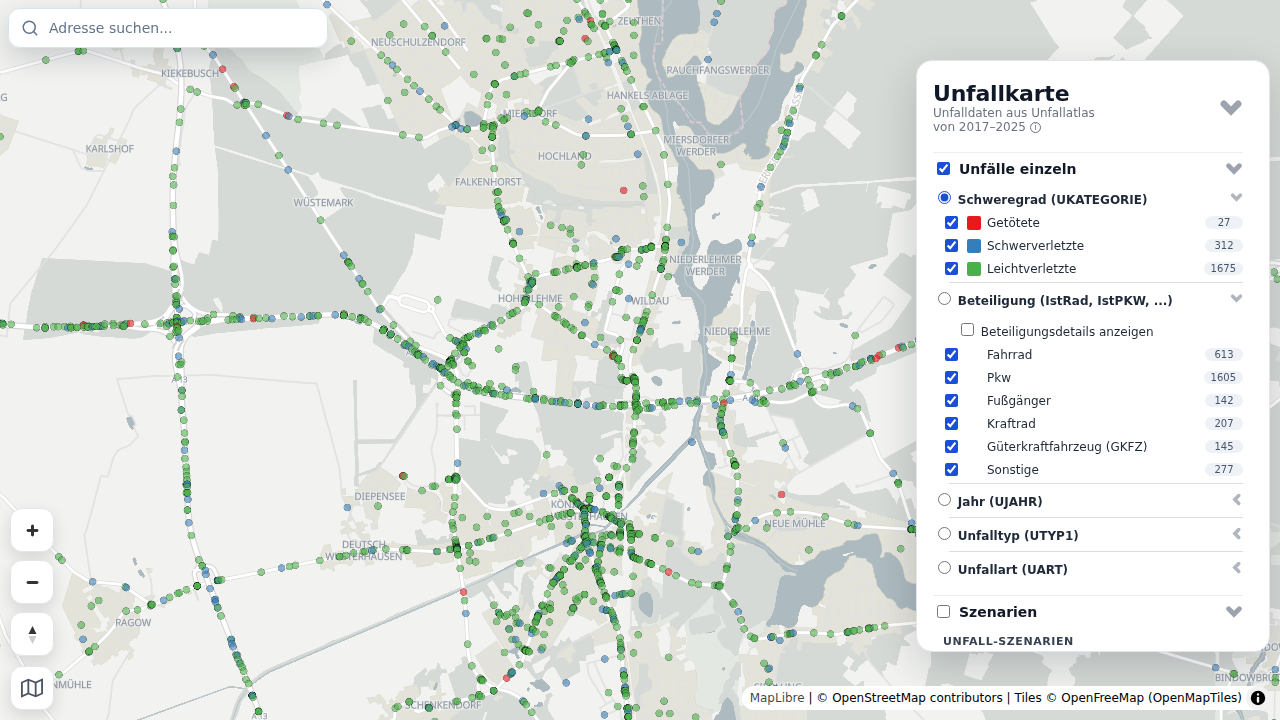
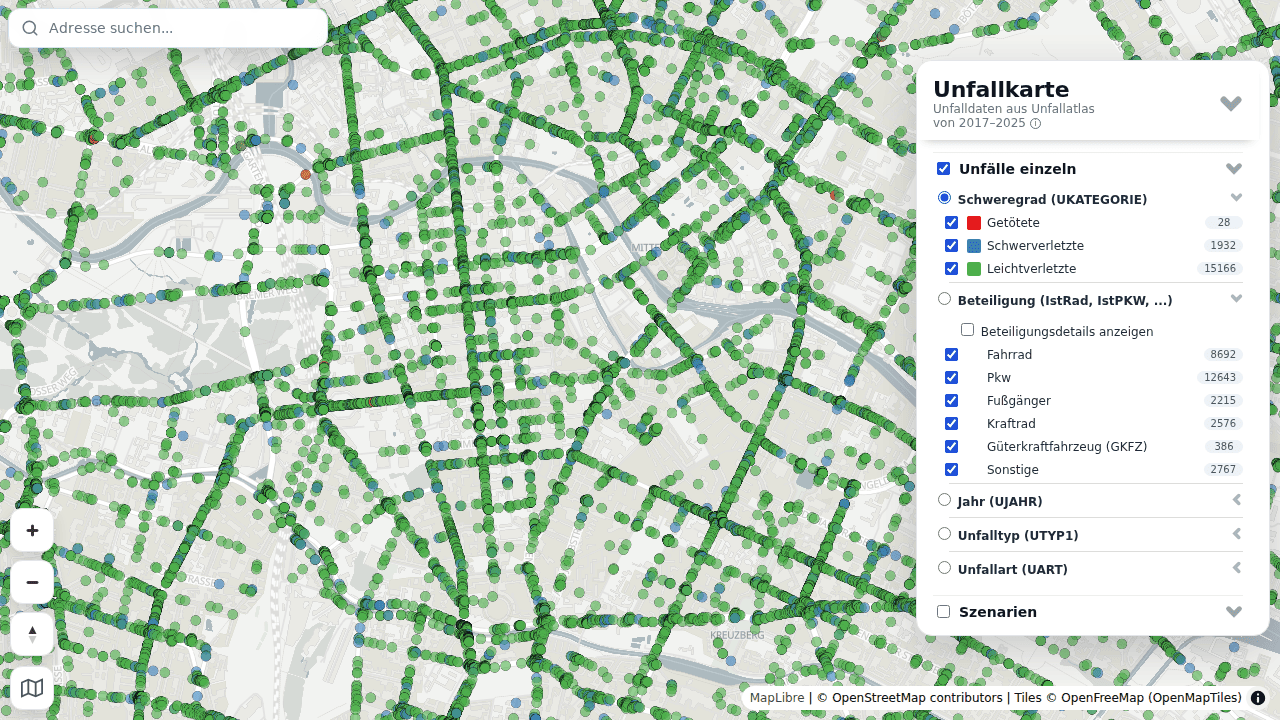
docs: README aktualisiert und neu gefasst
Inhaltlich falsch war vor allem das Datenjahr: an drei Stellen stand 2017–2024,
tatsächlich sind es 2017–2025 (2.219.353 Unfälle, nachgezählt im Parquet) — auch
im Beispiel-Kommando, das damit auf eine nicht existierende Datei zeigte.

Weiter:
- Link auf die kanonische Adresse vizsim.de/unfallkarte (github.io leitet nur um)
- `npm run test:unit` fehlte komplett; Golden- und Contract-Test sind jetzt als
  das benannt, was sie sind: das Sicherheitsnetz für Umbauten
- neuer Abschnitt "Branches & Deploy" — main ist Arbeits- UND Deploy-Branch, ein
  Push ist ein Produktiv-Deploy; Tag v2025 erwähnt
- Szenarien als Tabelle mit den echten Schwellenwerten aus dem Pipeline-Code
  (eps 50 m, 400 m, 30/60 m, 56 dB), statt teils unscharfer Prosa
- Hinweis bei sc9, dass die Feststellung eines Unfallschwerpunkts Sache der
  Unfallkommission ist
- Einstieg sagt jetzt, was man mit der Karte TUN kann, nicht nur welche Technik
  darunter liegt

Screenshot neu aufgenommen (zeigte noch die Legende vor dem Umbau) und auf die
in den og:image-Metas deklarierten 1280x720 gebracht — er war 1440x900, die
Angabe stimmte also nicht. Per pngquant von 1,08 MB auf 371 KB.

diff --git a/README.md b/README.md
@@ -3,15 +3,24 @@
 
 # 🚧 Unfallkarte (Deutschland)
 
-**Interaktive Webkarte** für Verkehrsunfälle in Deutschland. Die Unfalldaten stammen
-aus dem [Unfallatlas der Statistischen Ämter](https://unfallatlas.statistikportal.de/)
-(dl-de/by-2-0). Rohe Unfall- und OpenStreetMap-Daten werden zu **PMTiles** verarbeitet
-und in einer MapLibre-Karte dargestellt — komplett auf offenen, frei gehosteten
-Diensten (keine kommerzielle Karten-API).
+**Interaktive Webkarte für Verkehrsunfälle in Deutschland.** Über 2,2 Millionen polizeilich
+erfasste Unfälle mit Personenschaden aus den Jahren **2017–2025** — filterbar nach Schwere,
+Unfallart, Unfalltyp, Jahr und Beteiligung, und kombinierbar mit Kontextdaten: Schulen,
+Tempolimits, Verkehrsmengen, Lärm, Radinfrastruktur.
+
+Darüber hinaus rechnet die Pipeline **Szenarien**: Fragen an die Daten, die man auf der
+Karte sonst nur ahnen kann — wo häufen sich Unfälle im Schulumfeld, wo unterbricht ein
+kurzes Tempo-50-Stück eine sonst durchgängige 30er-Zone, wo liegen Unfallhäufungen nach
+den Kriterien der Unfallkommissionen.
+
+Quelle der Unfalldaten ist der [Unfallatlas der Statistischen Ämter](https://unfallatlas.statistikportal.de/)
+(dl-de/by-2-0). Rohdaten und OpenStreetMap werden zu **PMTiles** verarbeitet und in einer
+MapLibre-Karte gezeigt — ausschließlich über offene, frei gehostete Dienste, ohne
+kommerzielle Karten-API und ohne API-Key.
 
 ## 🚀 Online ansehen
 
-👉 [Unfallkarte auf GitHub Pages](https://vizsim.github.io/unfallkarte/)
+👉 **[vizsim.de/unfallkarte](https://vizsim.de/unfallkarte/)**
 
 ![Screenshot der Unfallkarte: Unfallpunkte auf der Karte, rechts die Legende mit Filtern](docs/screenshot.png)
 
@@ -19,123 +28,164 @@ Diensten (keine kommerzielle Karten-API).
 
 Zwei Teile in einem Repo:
 
-- **`pipeline/`** — Python-Pipeline (uv): lädt Unfalldaten (2017–2024) + OSM, baut
-  PMTiles, rechnet die Szenarien und deployt nach Backblaze B2.
-  Details + CLI: [`pipeline/README.md`](pipeline/README.md).
-- **Frontend (Repo-Root)** — statische MapLibre-Karte (`index.html` + `js/`, `style.json`).
-  Lädt die PMTiles **local-first** (`data/`) mit **B2-Fallback** über ein generiertes
-  `manifest.json`.
+- **`pipeline/`** — Python-Pipeline (uv): lädt Unfalldaten (2017–2025) und OSM, baut
+  PMTiles, rechnet die Szenarien, deployt nach Backblaze B2.
+  Details und CLI: [`pipeline/README.md`](pipeline/README.md).
+- **Frontend (Repo-Root)** — statische MapLibre-Karte (`index.html`, `js/`, `style.json`),
+  ohne Build-Step. Die PMTiles kommen **local-first** aus `data/`, sonst per **B2-Fallback**;
+  gesteuert über ein generiertes `manifest.json`.
+
+Jede Zeile der Legende entspricht genau einem Eintrag in der **Layer-Registry**
+(`js/layers/`): Quelle, Layer-Definitionen, Popup, Permalink-Zeichen und Legendentext
+stehen dort an einer Stelle statt über acht Dateien verteilt.
 
 ## 🗂 Daten & Ebenen
 
-- **Unfälle 2017–2024** (Unfallatlas) — Einzelpunkte (hoher Zoom) + Cluster (niedriger
-  Zoom mit Tortendiagrammen), filterbar nach Schwere, Art, Typ, Jahr und Beteiligung.
-- **OSM-Kontext** (ODbL): Schulen & Kindergärten, Gesundheitseinrichtungen, Spielplätze,
-  Querungen/Übergänge, Tempolimit-Straßennetz (Haupt- und Nebenstraßen).
-- **Szenarien** (Unfälle/OSM × Kontext):
-  - **sc1** — Unfall-Cluster auf Tempo-100-Straßen (DBSCAN)
-  - **sc2** — Unfälle nahe Schulen (50 m, ab 2020)
-  - **sc3** — Tempo-30 durchgängig: kurze 50er-Lücken zwischen 30er-Zonen
-  - **sc6** — Tempo-50-Straßen vor Schulen (30 m, ≥60 m)
-  - **sc8** — Lärm vor Schulen (UBA-Lärmkartierung, >56 dB)
-  - **sc9** — Unfallhäufungen (Kriterien nach M Uko, vereinfacht: 3-Jahres-Fenster + DBSCAN)
-- **Verkehr & Umwelt** (aus der Pipeline): Verkehrsmengen (SVZ der Länder,
-  BASt-Bundesfernstraßen, UBA-Hauptverkehrsstraßen), Rad-Geschwindigkeiten (movebis),
-  Überholabstände ([OpenBikeSensor](https://www.openbikesensor.org/)), Umgebungslärm
-  (UBA, Tag/Nacht), Telraam-Zählstellen — dazu Pkw-Geschwindigkeiten Berlin
+- **Unfälle 2017–2025** (Unfallatlas) — Einzelpunkte ab Zoom 11, darunter Cluster mit
+  Tortendiagrammen nach Schweregrad.
+- **OSM-Kontext** (ODbL) — Schulen und Kindergärten, Gesundheitseinrichtungen,
+  Spielplätze, Querungen und Übergänge, Tempolimit-Straßennetz.
+- **Verkehr & Umwelt** — Verkehrsmengen (SVZ der Länder, BASt-Bundesfernstraßen,
+  UBA-Hauptverkehrsstraßen), Rad-Geschwindigkeiten (movebis/Stadtradeln), Überholabstände
+  ([OpenBikeSensor](https://www.openbikesensor.org/)), Umgebungslärm (UBA, Tag und Nacht),
+  [Telraam](https://telraam.net/)-Zählstellen, Pkw-Geschwindigkeiten Berlin
   (Uber Movement 2019, statisch).
-- **Live-Layer**: Radinfrastruktur ([radinfra.de/TILDA](https://radinfra.de/)),
-  Mapillary-Tiles (Street-View-Sprung).
+- **Live-Layer** (direkt von fremden Servern, nicht aus der Pipeline) — Radinfrastruktur
+  ([radinfra.de/TILDA](https://radinfra.de/)) und Mapillary für den Street-View-Sprung.
 
-## 🌐 Offene Dienste — ohne Registrierung/API-Key
+### Szenarien
 
-Basemap, Terrain und Suche laufen auf frei gehosteten Diensten:
+Jedes Szenario verschneidet die Unfall- oder OSM-Daten mit einer Kontextebene. Die
+Schwellenwerte lassen sich in der Legende per Regler verändern.
 
-- **Basemap**: [OpenFreeMap](https://openfreemap.org/) Positron (gehostete OpenFreeMap-Tiles
-  inkl. Fonts), dazu OSM Carto und Esri Imagery (im Karten-Panel umschaltbar).
-- **Relief / 3D-Terrain + Hillshade**: [Mapterhorn](https://mapterhorn.com/) (raster-dem, terrarium).
-- **3D-Gebäude**: OpenFreeMap-Planet. **Adress-Suche**: [Photon](https://photon.komoot.io/) (Komoot).
+| | Was es zeigt |
+|---|---|
+| **sc1** | Unfall-Cluster auf Tempo-100-Straßen (DBSCAN, eps 50 m, min. 3 Unfälle) |
+| **sc2** | Unfälle im Schulumfeld (50 m Umkreis, Rad- und Fußunfälle ab 2020) |
+| **sc3** | Lücken in Tempo 30: kurze 50er-Abschnitte (< 400 m) zwischen 30er-Zonen |
+| **sc6** | Tempo 50 direkt vor Schulen (30 m Umkreis, ab 60 m Länge) |
+| **sc8** | Straßenlärm an Schulen (UBA-Lärmkartierung, L<sub>den</sub> > 56 dB) |
+| **sc9** | Unfallhäufungen nach M-Uko-Kriterien (vereinfacht: 3-Jahres-Fenster + DBSCAN) |
 
-Einzige Ausnahme: der optionale Mapillary-Layer (Street-View-Sprung, Verkehrszeichen)
-nutzt einen Mapillary-**Client-Token** (`js/config/config.public.js`). Pipeline-Secrets
-(B2-Keys) liegen nur in `pipeline/.env` (gitignored).
+> **Hinweis:** sc9 bildet die Kriterien der Unfallkommissionen nach, ersetzt aber keine
+> amtliche Feststellung — ob eine Stelle ein Unfallschwerpunkt ist, entscheidet die
+> zuständige Unfallkommission.
+
+## 🌐 Offene Dienste — ohne Registrierung, ohne API-Key
+
+- **Basemap** — [OpenFreeMap](https://openfreemap.org/) Positron (inkl. Fonts), dazu
+  OSM Carto und Esri Imagery, umschaltbar im Karten-Panel unten links.
+- **Relief, Hillshade und 3D-Gelände** — [Mapterhorn](https://mapterhorn.com/)
+  (raster-dem, terrarium). **3D-Gebäude** — OpenFreeMap-Planet.
+- **Adress-Suche** — [Photon](https://photon.komoot.io/) (Komoot).
+
+Einzige Ausnahme: der optionale Mapillary-Layer braucht einen Mapillary-**Client-Token**
+(`js/config/config.public.js`, öffentlich by design). Pipeline-Secrets wie die B2-Keys
+liegen ausschließlich in `pipeline/.env` (gitignored).
 
 ## 🖥 Frontend lokal starten
 
-Statische Seite über HTTP servieren (ES-Module + `fetch` brauchen HTTP, kein `file://`).
-Der Server muss **Range-Requests** können, sonst lassen sich lokale PMTiles nicht lesen —
-`python3 -m http.server` kann das **nicht** (Fehler „no content-length header …"):
+Die Seite braucht HTTP — ES-Module und `fetch` funktionieren nicht über `file://`. Wichtig:
+der Server muss **Range-Requests** beherrschen, sonst lassen sich lokale PMTiles nicht
+lesen. `python3 -m http.server` kann das **nicht** (Fehler „no content-length header …").
 
 ```bash
-npm install                          # einmalig (Dev-Tooling: http-server + Playwright)
-npm run serve                        # im Repo-Root -> http://localhost:4173
-#   localhost  -> nutzt deine lokale js/config/config.js (gitignored)
-#   127.0.0.1  -> nutzt js/config/config.public.js (so laufen auch die Tests/CI)
+npm install          # einmalig: Dev-Tooling (http-server + Playwright)
+npm run serve        # -> http://localhost:4173
 ```
 
-Gleichwertige Alternative ohne `npm install`: ein global installiertes
-[`serve`](https://github.com/vercel/serve) (`npm i -g serve`) — einfach `serve` im Repo-Root
-→ `http://localhost:3000`. Kann Range-Requests und folgt dem `data/`-Symlink (getestet mit
+Der Hostname entscheidet über die Konfiguration: `localhost` nimmt deine lokale
+`js/config/config.js` (gitignored), `127.0.0.1` nimmt `js/config/config.public.js` — so
+laufen auch Tests und CI.
+
+Alternative ohne `npm install`: ein global installiertes
+[`serve`](https://github.com/vercel/serve) im Repo-Root (`npm i -g serve` →
+`http://localhost:3000`). Es kann Range-Requests und folgt dem `data/`-Symlink (geprüft mit
 14.2.6: `206` auf `data/accidents/*.pmtiles`).
 
-**Local-first**: liegt ein `data/`-Verzeichnis lokal vor (z. B. Symlink auf `pipeline/data/`),
-werden die PMTiles von dort geladen; sonst fällt das Frontend automatisch auf B2 zurück
-(Manifest wird local-first, sonst aus dem Bucket gelesen).
+**Local-first:** liegt ein `data/`-Verzeichnis vor (typischerweise ein Symlink auf
+`pipeline/data/`), kommen die PMTiles von dort — sonst automatisch aus dem B2-Bucket. Du
+brauchst also keine lokalen Daten, um am Frontend zu arbeiten.
 
 ## ✅ Tests
 
 ```bash
-npm run test:web                                   # Frontend-Smoke-Tests (Playwright, headless Chromium)
-uv --directory pipeline run pytest                 # Pipeline-Tests (Dry-Run, keine Daten nötig)
-(cd pipeline && uvx ruff check)                    # Lint
+npm run test:unit                      # browserlos (node --test), Sekunden
+npm run test:web                       # Frontend im Browser (Playwright, headless Chromium)
+uv --directory pipeline run pytest     # Pipeline (Dry-Run, keine Daten nötig)
+(cd pipeline && uvx ruff check)        # Lint
 ```
 
-Die Smoke-Tests (`tests/web/`) fahren die echte Seite im Browser: lädt die Karte ohne
-JS-Fehler, liefert der Cluster-Hover das vergrößerte Pie, erscheint bei überlappenden
-Objekten genau **ein** gestapeltes Popup, fixiert/schließt der Klick, überlebt ein Sweep
-über alle Kontext-Layer. Sie starten ihren Server selbst, nutzen Local-first/B2 wie im
-Betrieb (brauchen also keine lokalen Daten) und laufen zusammen mit ruff + pytest in der
-CI (`.github/workflows/ci.yml`). **Vor jedem Upgrade der Libs in `vendor/` laufen lassen.**
+Die Browser-Tests in `tests/web/` fahren die echte Seite: Lädt die Karte ohne JS-Fehler?
+Liefert der Cluster-Hover das vergrößerte Tortendiagramm? Erscheint bei überlappenden
+Objekten genau **ein** gestapeltes Popup? Überlebt ein Permalink das Kopieren und
+Neuladen samt Reglern? Sie starten ihren Server selbst und nutzen Local-first/B2 wie im
+Betrieb, brauchen also keine lokalen Daten.
+
+Zwei Tests sind das eigentliche Sicherheitsnetz für Umbauten:
+
+- **`golden.spec.js`** hält Quellen, alle Layer-Definitionen und das Verhalten jedes
+  Toggles über drei Zoomstufen als Snapshot fest. Nach einem Refactor muss er
+  **unverändert** grün sein; gewollte Änderungen mit `--update-snapshots` aufnehmen und den
+  Diff Zeile für Zeile prüfen.
+- **`contract.spec.js`** liest die Metadaten der echten PMTiles und prüft jeden
+  `source-layer` und jedes im Style benutzte Attribut. Nötig, weil MapLibre bei PMTiles
+  **nicht** validiert — der Test fand auf Anhieb zwei Bugs, die monatelang unbemerkt waren.
+
+Alles läuft in der CI (`.github/workflows/ci.yml`). **Vor jedem Upgrade der Libs in
+`vendor/` laufen lassen.**
 
 ## ⚙ Daten aufbauen (Pipeline)
 
-Voll dokumentiert in [`pipeline/README.md`](pipeline/README.md). Kurzform:
+Ausführlich in [`pipeline/README.md`](pipeline/README.md). Kurzform:
 
 ```bash
 cd pipeline
 uv sync
 uv run unfallkarte accidents fetch && uv run unfallkarte accidents build
-uv run unfallkarte accidents tiles data/accidents/accidents_germany_2017-2024_oid.parquet
+uv run unfallkarte accidents tiles data/accidents/accidents_germany_2017-2025_oid.parquet
 uv run unfallkarte osm fetch && uv run unfallkarte osm build all
 uv run unfallkarte scenario run-all
 uv run unfallkarte manifest && uv run unfallkarte deploy
 ```
 
-Kontextlayer analog: `uv run unfallkarte <hvs|laerm|obs|telraam> fetch|build` bzw.
-`movebis build` (Details in [`pipeline/README.md`](pipeline/README.md)).
+Ein neues Unfalljahr ist ein YAML-Block in `pipeline/config/accidents.yaml` — kein
+Code-Edit. Kontextlayer analog: `uv run unfallkarte <hvs|laerm|obs|telraam> fetch|build`
+bzw. `movebis build`.
 
-System-Binaries (nicht via pip): `tippecanoe` + `tile-join`, `osmium-tool`; b2-CLI via
-`uv tool install b2`. (`ogr2ogr`/gdal-bin wird **nicht** gebraucht — OSM-PBF wird direkt
-via pyogrio gelesen.)
+System-Binaries (nicht über pip): `tippecanoe` und `tile-join`, `osmium-tool`; die b2-CLI
+über `uv tool install b2`. (`ogr2ogr`/gdal-bin wird **nicht** gebraucht — OSM-PBF liest
+pyogrio direkt.)
+
+## 🌿 Branches & Deploy
+
+`main` ist Arbeits- **und** Deploy-Branch: GitHub Pages liefert ihn direkt aus, ein Push
+ist damit ein Produktiv-Deploy. Größere Umbauten laufen über einen `temp/*`-Branch und
+werden erst nach grünen Tests gemergt. Der Stand vor dem Pipeline-Refactor hängt als Tag
+**`v2025`**.
+
+Die PMTiles liegen **nicht** im Git (`data/` ist gitignored), sondern lokal und im
+öffentlichen B2-Bucket. Ein Code-Deploy und ein Daten-Deploy
+(`uv run unfallkarte deploy`) sind zwei getrennte Vorgänge.
 
 ## 📚 Weitere Doku
 
 - [`docs/TODO.md`](docs/TODO.md) — offene Punkte (UX, CI, Aufräumen).
-- [`docs/REFACTORING_PLAN.md`](docs/REFACTORING_PLAN.md) — Historie & Begründung des
-  Notebook→Pipeline-Refactors (abgeschlossen).
-- [`CLAUDE.md`](CLAUDE.md) — Regeln/Konventionen für die Arbeit im Repo.
+- [`docs/REFACTORING_PLAN.md`](docs/REFACTORING_PLAN.md) — Historie und Begründung des
+  Umbaus von Notebooks zur Pipeline (abgeschlossen).
+- [`CLAUDE.md`](CLAUDE.md) — Regeln und Konventionen für die Arbeit im Repo.
 
 ## 🧰 Tech
 
-MapLibre GL JS · PMTiles · tippecanoe · osmium-tool · GeoPandas/pyogrio (Python-Pipeline, **uv**)
-· OpenFreeMap · Mapterhorn · Backblaze B2 · Photon · radinfra.de/TILDA.
+MapLibre GL JS · PMTiles · tippecanoe · osmium-tool · GeoPandas/pyogrio (Python-Pipeline
+mit **uv**) · OpenFreeMap · Mapterhorn · Backblaze B2 · Photon · radinfra.de/TILDA.
 
 ## 📄 Lizenz
 
 **AGPL-3.0-or-later** © vizsim. (Früher MIT — bereits unter MIT veröffentlichte Stände
-bleiben MIT; künftige Versionen sind AGPL.) Der Quellcode-Link im UI erfüllt die
-AGPL-§13-Pflicht (Network Use).
+bleiben MIT, künftige Versionen sind AGPL.) Der Quellcode-Link im UI erfüllt die
+AGPL-§13-Pflicht bei Netzwerknutzung.
 
-**Daten** behalten ihre eigenen Lizenzen + Attribution: Unfallatlas (dl-de/by-2-0),
-OpenStreetMap (ODbL), Umweltbundesamt (Lärm), OpenFreeMap (ODbL), Mapterhorn, Mapillary,
-radinfra.de/TILDA.
+**Daten** behalten ihre eigenen Lizenzen und Attribution: Unfallatlas (dl-de/by-2-0),
+OpenStreetMap (ODbL), Umweltbundesamt (Lärm, Verkehrsmengen), OpenFreeMap (ODbL),
+Mapterhorn, Mapillary, radinfra.de/TILDA, Telraam (CC BY-NC).
